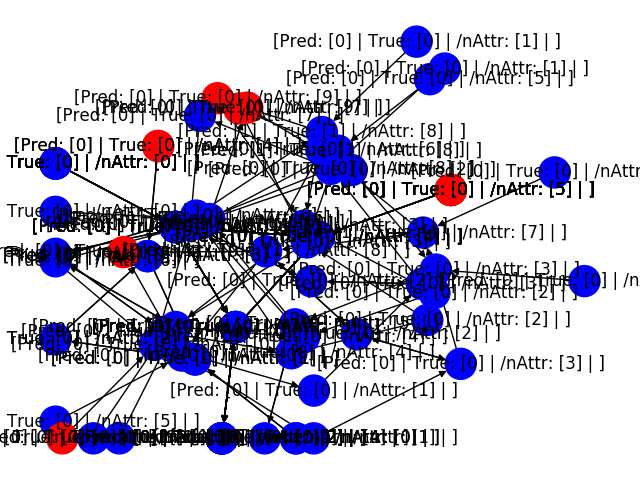
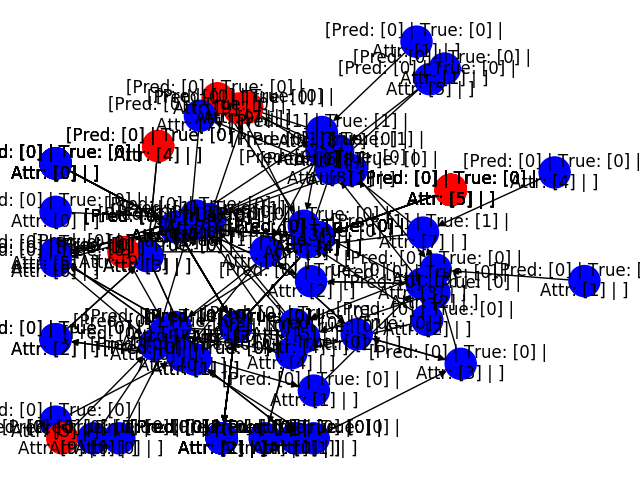
.

Changed region(s): [[0.0, 0.0312, 1.0, 0.9688]]

diff --git a/programl/task/dataflow/ggnn_test.py b/programl/task/dataflow/ggnn_test.py
@@ -254,7 +254,7 @@ def DrawAndSaveGraph(graph, graph_fname):
     for node, features in original_labels.items():
         curr_label = ""
         curr_label += "Pred: " + str(features["pred_y"]) + " | "
-        curr_label += "True: " + str(features["true_y"]) + " | /n"
+        curr_label += "True: " + str(features["true_y"]) + " | \n"
         curr_label += "Attr: " + str(features["attribution_order"]) + " | "
         if features["data_flow_root_node"] == 0:
             curr_label += "Target"
